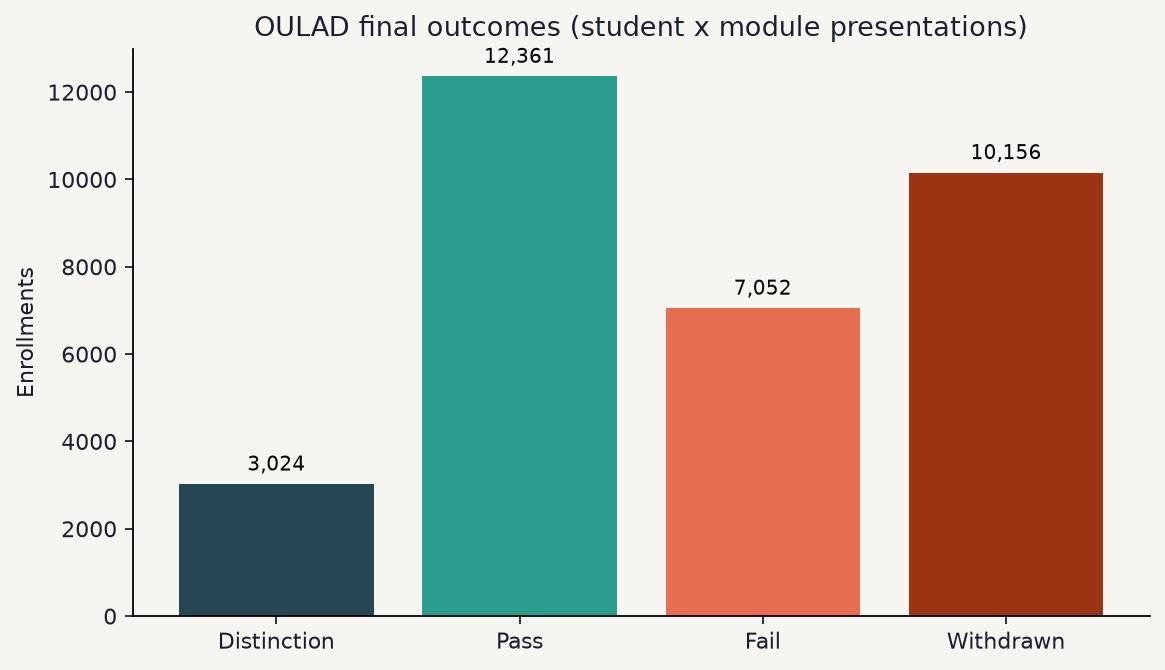
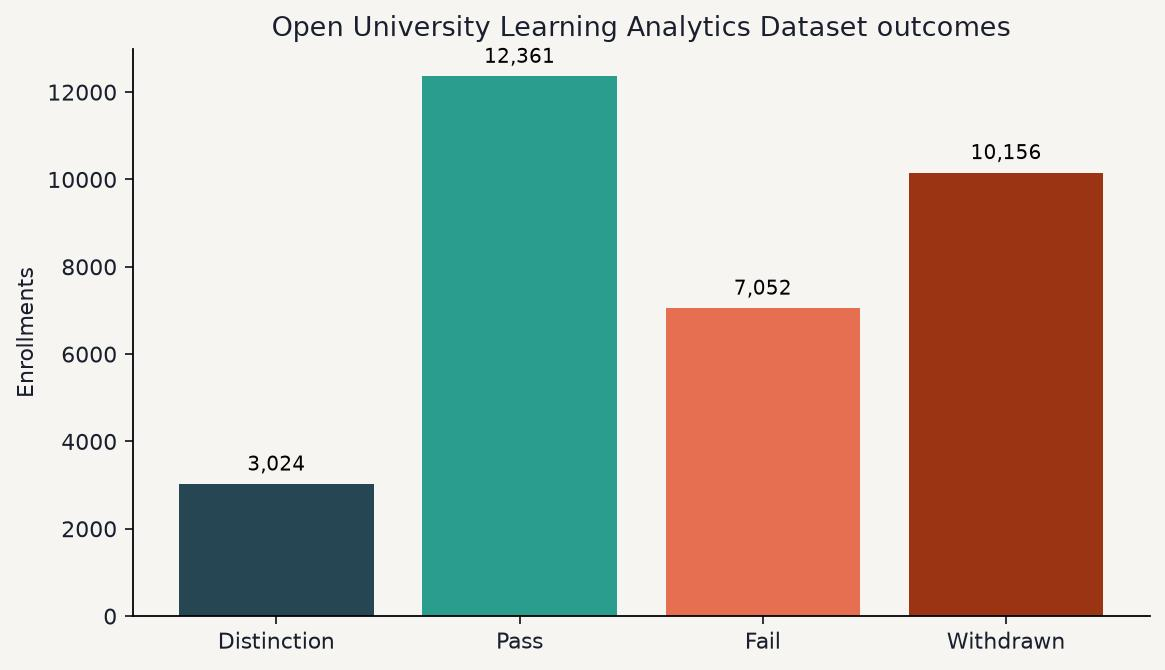
Use full Open University Learning Analytics Dataset name in BryTek data copy.
Drop the bare OULAD acronym from CMS text and chart titles while keeping asset filenames.

Changed region(s): [[0.2163, 0.0, 0.8961, 0.0597]]

diff --git a/scripts/patch_brytek_oulad_seed.py b/scripts/patch_brytek_oulad_seed.py
@@ -1,4 +1,4 @@
-"""Insert / refresh brytek-learning-analytics in seed_data.json from OULAD metrics."""
+"""Insert / refresh brytek-learning-analytics in seed_data.json from Open University Learning Analytics Dataset metrics."""
 
 from __future__ import annotations
 
@@ -36,11 +36,11 @@ def build_project(m: dict) -> dict:
             "pandas",
             "Matplotlib",
             "Learning analytics",
-            "OULAD",
+            "Open University Learning Analytics Dataset",
             "VLE engagement",
         ],
         "impact": (
-            f"On OULAD ({m['enrollments']:,} enrollments across {m['modules']} modules), "
+            f"On the Open University Learning Analytics Dataset ({m['enrollments']:,} enrollments across {m['modules']} modules), "
             f"{pct(m['at_risk_rate'])} end Fail or Withdrawn. Silent starters "
             f"({pct(m['zero_early_share'])} with zero VLE clicks in the first "
             f"{m['early_window_days']} days) reach {pct(m['zero_early_at_risk'])} at-risk. "
@@ -54,27 +54,27 @@ def build_project(m: dict) -> dict:
         ),
         "summary": (
             "Data lens companion to the BryTek UX study. I use the public Open University Learning "
-            "Analytics Dataset (OULAD, CC BY 4.0) as a real EdTech stand-in: demographics, assessments, "
+            "Analytics Dataset (CC BY 4.0) as a real EdTech stand-in: demographics, assessments, "
             "and VLE click summaries for 32k+ students. The question is the same one a BryTek teacher "
             "dashboard should answer: who needs outreach before they fail or withdraw. Honest framing: "
             "this is public OU data, not BryTek production telemetry."
         ),
-        "tagline": "OULAD learning analytics framed for BryTek instructor intervention decisions.",
+        "tagline": "Open University Learning Analytics Dataset framed for BryTek instructor intervention decisions.",
         "approach": (
-            "Start from the BryTek instructor job (morning course health), ground it in OULAD outcomes "
+            "Start from the BryTek instructor job (morning course health), ground it in Open University Learning Analytics Dataset outcomes "
             "and early VLE activity, then leave with a decision mix: silent starters first, then "
             "low-engagement bands, with module-level health as context."
         ),
         "category": "Data analysis",
         "highlights": [
             "Paired with the BryTek UX case: same instructor cockpit question, measured on real public LMS data.",
-            "Grounded in OULAD (Nature Scientific Data / UCI), CC BY 4.0, not synthetic grades.",
+            "Grounded in the Open University Learning Analytics Dataset (Nature Scientific Data / UCI), CC BY 4.0, not synthetic grades.",
             "Early VLE silence (first 14 days) as the primary risk signal for Fail or Withdrawn.",
             "Module health view so teachers see which courses need staffing attention, not only which students.",
         ],
         "externalUrl": "https://analyse.kmi.open.ac.uk/open_dataset",
-        "externalLabel": "OULAD source",
-        "timeline": "Portfolio data study · OULAD (2013 - 2014 presentations)",
+        "externalLabel": "Open University Learning Analytics Dataset",
+        "timeline": "Portfolio data study · Open University Learning Analytics Dataset (2013 - 2014 presentations)",
         "platform": "Learning analytics (Python / pandas / EdTech decision framing)",
         "role": "Data analyst",
         "roleBody": (
@@ -121,11 +121,11 @@ def build_project(m: dict) -> dict:
                     "This is the data lens beside BryTek Online Learning (UX). The design study gives "
                     "teachers a cockpit for enrollments, ratings, and earnings. This study asks what that "
                     "cockpit should prioritize when the signal is learning behaviour, not revenue.\n\n"
-                    "I use the Open University Learning Analytics Dataset (OULAD): anonymized course, "
+                    "I use the Open University Learning Analytics Dataset: anonymized course, "
                     "student, assessment, and Virtual Learning Environment (VLE) interaction data from "
                     "Open University presentations in 2013 and 2014. License: CC BY 4.0. Citation: "
                     "Kuzilek, Hlosta, Zdrahal, Nature Scientific Data 4:170171 (2017).\n\n"
-                    "Framing rule: OULAD is a public EdTech proxy. It is not BryTek production data. "
+                    "Framing rule: the Open University Learning Analytics Dataset is a public EdTech proxy. It is not BryTek production data. "
                     "The point is transferable decisions a BryTek-style instructor dashboard should surface.\n\n"
                     "MY ROLE - Data analyst framing the instructor question, early-engagement risk, "
                     "module health, and intervention narrative."
@@ -146,7 +146,7 @@ def build_project(m: dict) -> dict:
                     "arrives too late.\n\n"
                     "PROBLEM - Public LMS logs are noisy: withdrawals, fails, distinctions, and silent "
                     "accounts sit in the same table until you define an outcome and a time window.\n\n"
-                    "EXAMPLE - OULAD labels final_result as Distinction, Pass, Fail, or Withdrawn, and "
+                    "EXAMPLE - The Open University Learning Analytics Dataset labels final_result as Distinction, Pass, Fail, or Withdrawn, and "
                     "stores daily VLE click summaries that only help if you pick an early window.\n\n"
                     "IMPACT - Without those definitions, 'engagement' stays a vague chart instead of a queue."
                 ),
@@ -162,7 +162,7 @@ def build_project(m: dict) -> dict:
                     "learning-analytics decision story, not only UI fiction on the dashboard cards.\n\n"
                     "USER GOALS - Give an instructor a shortlist: silent starters first, then low early "
                     "engagement, with module context so staffing attention follows course risk.\n\n"
-                    "Give a portfolio reader an honest source trail (OULAD / UCI / OU Analyse) they can verify."
+                    "Give a portfolio reader an honest source trail (Open University Learning Analytics Dataset / UCI / OU Analyse) they can verify."
                 ),
                 "images": [],
             },
@@ -172,7 +172,7 @@ def build_project(m: dict) -> dict:
                 "layout": "stack",
                 "imageLayout": "stack",
                 "body": (
-                    f"Computed on public OULAD after joining studentInfo to early VLE activity "
+                    f"Computed on the public Open University Learning Analytics Dataset after joining studentInfo to early VLE activity "
                     f"(days 0 to {m['early_window_days']}).\n\n"
                     f"Scale: {m['enrollments']:,} enrollments, {m['students']:,} students, "
                     f"{m['modules']} modules, {m['presentations']} presentations.\n\n"
@@ -217,8 +217,8 @@ def build_project(m: dict) -> dict:
                     "DATA QUESTION - In the first two weeks of a presentation, which enrollments should "
                     "enter an instructor intervention queue because early VLE silence predicts Fail or Withdrawn?\n\n"
                     "Hugging Face check before locking the source: edu-interactions is AI-tutor oriented; "
-                    "student-engagement-and-performance is only ~50 rows; OULAD-derived HF artifacts are "
-                    "prompts or benchmarks, not the raw LMS tables. OULAD via OU Analyse / UCI remains the "
+                    "student-engagement-and-performance is only ~50 rows; Open University Learning Analytics Dataset-derived Hugging Face artifacts are "
+                    "prompts or benchmarks, not the raw LMS tables. the Open University Learning Analytics Dataset via OU Analyse / UCI remains the "
                     "best public fit for a BryTek instructor story.\n\n"
                     "The storyboard: define outcomes, measure early clicks, rank risk bands, read module "
                     "health, then leave with a decision mix tied to the BryTek teacher job."
@@ -240,7 +240,7 @@ def build_project(m: dict) -> dict:
                 "images": [
                     {
                         "src": media("/images/case_studies/brytek-oulad-outcomes.jpg"),
-                        "alt": "OULAD final outcome counts",
+                        "alt": "Open University Learning Analytics Dataset final outcome counts",
                         "caption": (
                             f"Outcomes: Pass {oc.get('Pass', 0):,} · Withdrawn {oc.get('Withdrawn', 0):,} · "
                             f"Fail {oc.get('Fail', 0):,} · Distinction {oc.get('Distinction', 0):,}."
@@ -254,7 +254,7 @@ def build_project(m: dict) -> dict:
                 "layout": "stack",
                 "imageLayout": "row",
                 "body": (
-                    f"Early window: days 0 to {m['early_window_days']} in OULAD's relative course calendar. "
+                    f"Early window: days 0 to {m['early_window_days']} in the Open University Learning Analytics Dataset relative course calendar. "
                     "Sum of VLE clicks per enrollment. Missing VLE rows count as zero early clicks.\n\n"
                     f"INSIGHT - Risk falls as early activity rises: {pct(m['q1_at_risk'])} at-risk in the "
                     f"lowest quintile vs {pct(m['q5_at_risk'])} in the highest. "
@@ -297,7 +297,7 @@ def build_project(m: dict) -> dict:
                 "images": [
                     {
                         "src": media("/images/case_studies/brytek-oulad-module-health.jpg"),
-                        "alt": "Pass and withdrawal rates by OULAD module",
+                        "alt": "Pass and withdrawal rates by Open University Learning Analytics Dataset module",
                         "caption": "Module health: success vs withdrawal side by side.",
                     }
                 ],
@@ -333,8 +333,8 @@ def build_project(m: dict) -> dict:
                 "imageLayout": "stack",
                 "body": (
                     "Hugging Face is useful for discovery, but the best BryTek-shaped public table set is still "
-                    "OULAD from OU Analyse / UCI, not a 50-row engagement toy set.\n\n"
-                    "Say the source out loud. Claiming OULAD as BryTek production data would break trust.\n\n"
+                    "the Open University Learning Analytics Dataset from OU Analyse / UCI, not a 50-row engagement toy set.\n\n"
+                    "Say the source out loud. Claiming the Open University Learning Analytics Dataset as BryTek production data would break trust.\n\n"
                     "Early windows beat lifetime averages for instructor action. Teachers intervene in weeks, "
                     "not after the final result lands.\n\n"
                     "Pair the UX and data entries. Design shows the cockpit; analytics shows what should fill it."
@@ -374,7 +374,7 @@ def main() -> None:
         "slug": "brytek-learning-analytics",
         "image": media("/images/case_studies/brytek-oulad-early-risk.jpg"),
         "title": "BryTek data: early VLE risk for instructor outreach",
-        "meta": "Data analysis · OULAD · Learning analytics",
+        "meta": "Data analysis · Open University Learning Analytics Dataset",
     }
     highlights = data["highlights"]
     h_idx = next((i for i, h in enumerate(highlights) if h["slug"] == "brytek-learning-analytics"), None)

diff --git a/scripts/analyze_oulad_brytek.py b/scripts/analyze_oulad_brytek.py
@@ -134,7 +134,7 @@ def main() -> None:
     style_axes(ax)
     bars = ax.bar(order, vals, color=colors)
     ax.set_ylabel("Enrollments")
-    ax.set_title("OULAD final outcomes (student x module presentations)")
+    ax.set_title("Open University Learning Analytics Dataset outcomes")
     for b, v in zip(bars, vals):
         ax.text(b.get_x() + b.get_width() / 2, v + 200, f"{v:,}", ha="center", va="bottom", fontsize=9)
     save_fig(fig, "brytek-oulad-outcomes.jpg")
@@ -187,7 +187,7 @@ def main() -> None:
     save_fig(fig, "brytek-oulad-silent-starters.jpg")
 
     metrics = {
-        "source": "Open University Learning Analytics Dataset (OULAD)",
+        "source": "Open University Learning Analytics Dataset",
         "license": "CC BY 4.0",
         "citation": "Kuzilek, Hlosta, Zdrahal. Nature Scientific Data 4:170171 (2017).",
         "enrollments": enrollments,